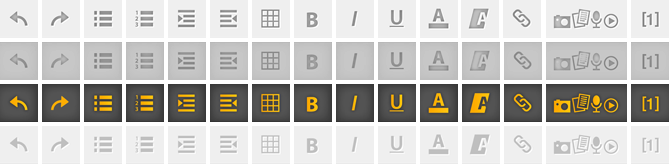
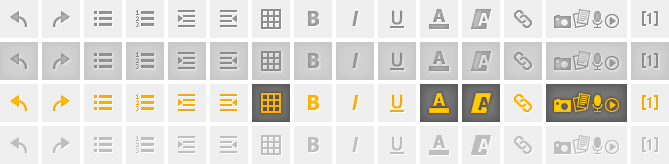
FLOE-1: High-contrast images for the authoring toolbar.

diff --git a/project/media/styles/authoring/edit.css b/project/media/styles/authoring/edit.css
@@ -469,7 +469,7 @@
   #write-toolbar .toolbar-button.disabled {
     cursor: default; }
 #write-toolbar .undo {
-  background: url(../../images/authoring/toolbar.png) 0px 0px no-repeat; }
+  background: url(../../images/authoring/674) 0px 0px no-repeat; }
 #write-toolbar .undo:hover {
   background: url(../../images/authoring/toolbar.png) 0px -42px no-repeat; }
 #write-toolbar .undo.active {
@@ -1170,3 +1170,88 @@
       background: url(../../images/authoring/license-images.png) -63px -63px no-repeat; }
 #step-submit .license-widget ul {
   list-style-type: none; }
+
+/* High-contrast toolbar images */
+.fl-theme-uio-by #write-toolbar .undo,
+.fl-theme-uio-by #write-toolbar .redo,
+.fl-theme-uio-by #write-toolbar .bullet-list,
+.fl-theme-uio-by #write-toolbar .number-list,
+.fl-theme-uio-by #write-toolbar .indent,
+.fl-theme-uio-by #write-toolbar .outdent,
+.fl-theme-uio-by #write-toolbar .table,
+.fl-theme-uio-by #write-toolbar .bold,
+.fl-theme-uio-by #write-toolbar .italic,
+.fl-theme-uio-by #write-toolbar .underline,
+.fl-theme-uio-by #write-toolbar .text-color,
+.fl-theme-uio-by #write-toolbar .bg-color,
+.fl-theme-uio-by #write-toolbar .link,
+.fl-theme-uio-by #write-toolbar .media,
+.fl-theme-uio-by #write-toolbar .reference,
+.fl-theme-uio-by #write-toolbar .table-tool.active a.table,
+.fl-theme-uio-by #write-toolbar .color-selector.active .text-color,
+.fl-theme-uio-by #write-toolbar .color-selector.active .bg-color {
+    background-image: url(../../images/authoring/toolbar-blackonyellow.png) !important;
+}
+
+.fl-theme-uio-yb #write-toolbar .undo,
+.fl-theme-uio-yb #write-toolbar .redo,
+.fl-theme-uio-yb #write-toolbar .bullet-list,
+.fl-theme-uio-yb #write-toolbar .number-list,
+.fl-theme-uio-yb #write-toolbar .indent,
+.fl-theme-uio-yb #write-toolbar .outdent,
+.fl-theme-uio-yb #write-toolbar .table,
+.fl-theme-uio-yb #write-toolbar .bold,
+.fl-theme-uio-yb #write-toolbar .italic,
+.fl-theme-uio-yb #write-toolbar .underline,
+.fl-theme-uio-yb #write-toolbar .text-color,
+.fl-theme-uio-yb #write-toolbar .bg-color,
+.fl-theme-uio-yb #write-toolbar .link,
+.fl-theme-uio-yb #write-toolbar .media,
+.fl-theme-uio-yb #write-toolbar .reference,
+.fl-theme-uio-yb #write-toolbar .table-tool.active a.table,
+.fl-theme-uio-yb #write-toolbar .color-selector.active .text-color,
+.fl-theme-uio-yb #write-toolbar .color-selector.active .bg-color {
+    background-image: url(../../images/authoring/toolbar-yellowonblack.png) !important;
+}
+
+.fl-theme-uio-bw #write-toolbar .undo,
+.fl-theme-uio-bw #write-toolbar .redo,
+.fl-theme-uio-bw #write-toolbar .bullet-list,
+.fl-theme-uio-bw #write-toolbar .number-list,
+.fl-theme-uio-bw #write-toolbar .indent,
+.fl-theme-uio-bw #write-toolbar .outdent,
+.fl-theme-uio-bw #write-toolbar .table,
+.fl-theme-uio-bw #write-toolbar .bold,
+.fl-theme-uio-bw #write-toolbar .italic,
+.fl-theme-uio-bw #write-toolbar .underline,
+.fl-theme-uio-bw #write-toolbar .text-color,
+.fl-theme-uio-bw #write-toolbar .bg-color,
+.fl-theme-uio-bw #write-toolbar .link,
+.fl-theme-uio-bw #write-toolbar .media,
+.fl-theme-uio-bw #write-toolbar .reference,
+.fl-theme-uio-bw #write-toolbar .table-tool.active a.table,
+.fl-theme-uio-bw #write-toolbar .color-selector.active .text-color,
+.fl-theme-uio-bw #write-toolbar .color-selector.active .bg-color {
+    background-image: url(../../images/authoring/toolbar-blackonwhite.png) !important;
+}
+
+.fl-theme-uio-wb #write-toolbar .undo,
+.fl-theme-uio-wb #write-toolbar .redo,
+.fl-theme-uio-wb #write-toolbar .bullet-list,
+.fl-theme-uio-wb #write-toolbar .number-list,
+.fl-theme-uio-wb #write-toolbar .indent,
+.fl-theme-uio-wb #write-toolbar .outdent,
+.fl-theme-uio-wb #write-toolbar .table,
+.fl-theme-uio-wb #write-toolbar .bold,
+.fl-theme-uio-wb #write-toolbar .italic,
+.fl-theme-uio-wb #write-toolbar .underline,
+.fl-theme-uio-wb #write-toolbar .text-color,
+.fl-theme-uio-wb #write-toolbar .bg-color,
+.fl-theme-uio-wb #write-toolbar .link,
+.fl-theme-uio-wb #write-toolbar .media,
+.fl-theme-uio-wb #write-toolbar .reference,
+.fl-theme-uio-wb #write-toolbar .table-tool.active a.table,
+.fl-theme-uio-wb #write-toolbar .color-selector.active .text-color,
+.fl-theme-uio-wb #write-toolbar .color-selector.active .bg-color {
+    background-image: url(../../images/authoring/toolbar-whiteonblack.png) !important;
+}
